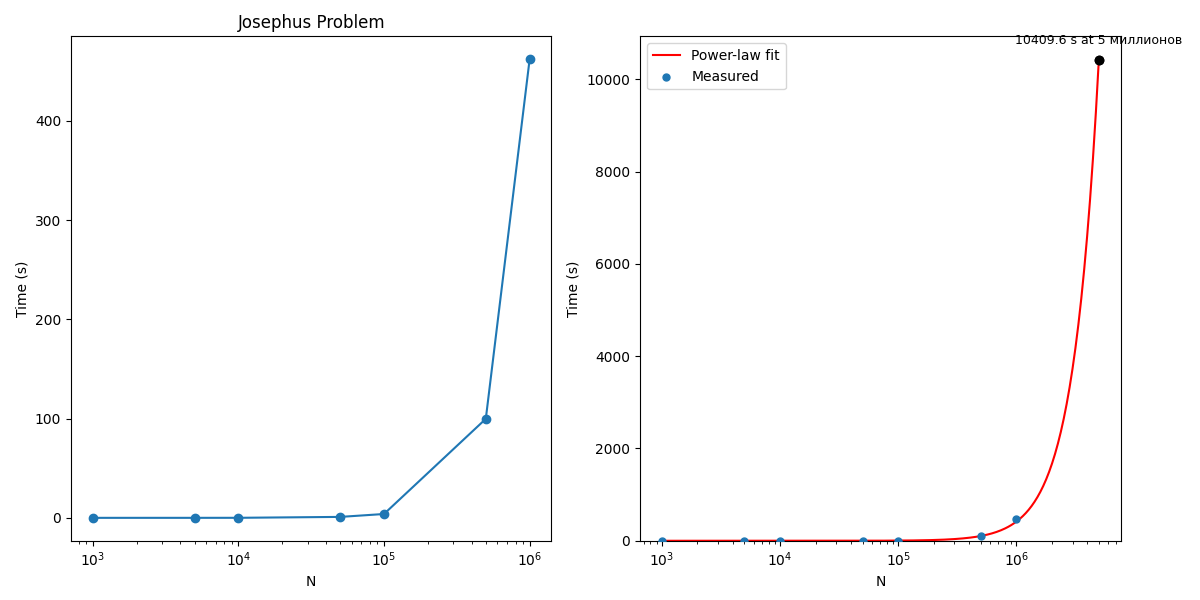
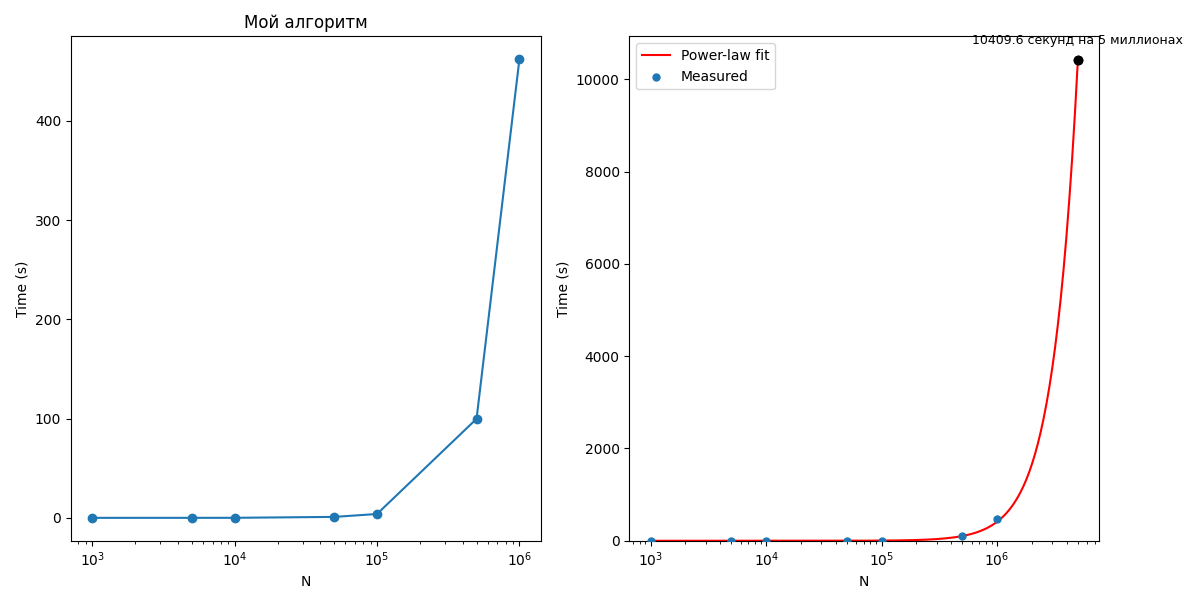
Update graphic

diff --git a/vector/main.py b/vector/main.py
@@ -15,7 +15,7 @@ ax_l.plot(N, times, marker="o")
 ax_l.set_xscale("log")
 ax_l.set_xlabel("N")
 ax_l.set_ylabel("Time (s)")
-ax_l.set_title("Josephus Problem")
+ax_l.set_title("Мой алгоритм")
 
 
 logN = np.log10(N)
@@ -32,7 +32,7 @@ mark_N = 5_000_000
 mark_time = float(10 ** (intercept + slope * np.log10(mark_N)))
 ax_r.scatter([mark_N], [mark_time], color="black", zorder=6)
 ax_r.scatter([mark_N], [mark_time], color="black", zorder=6)
-ax_r.annotate(f"{mark_time:.1f} s at 5 миллионов",
+ax_r.annotate(f"{mark_time:.1f} секунд на 5 миллионах",
               xy=(mark_N, mark_time),
               xytext=(0, 12),
               textcoords="offset points",
